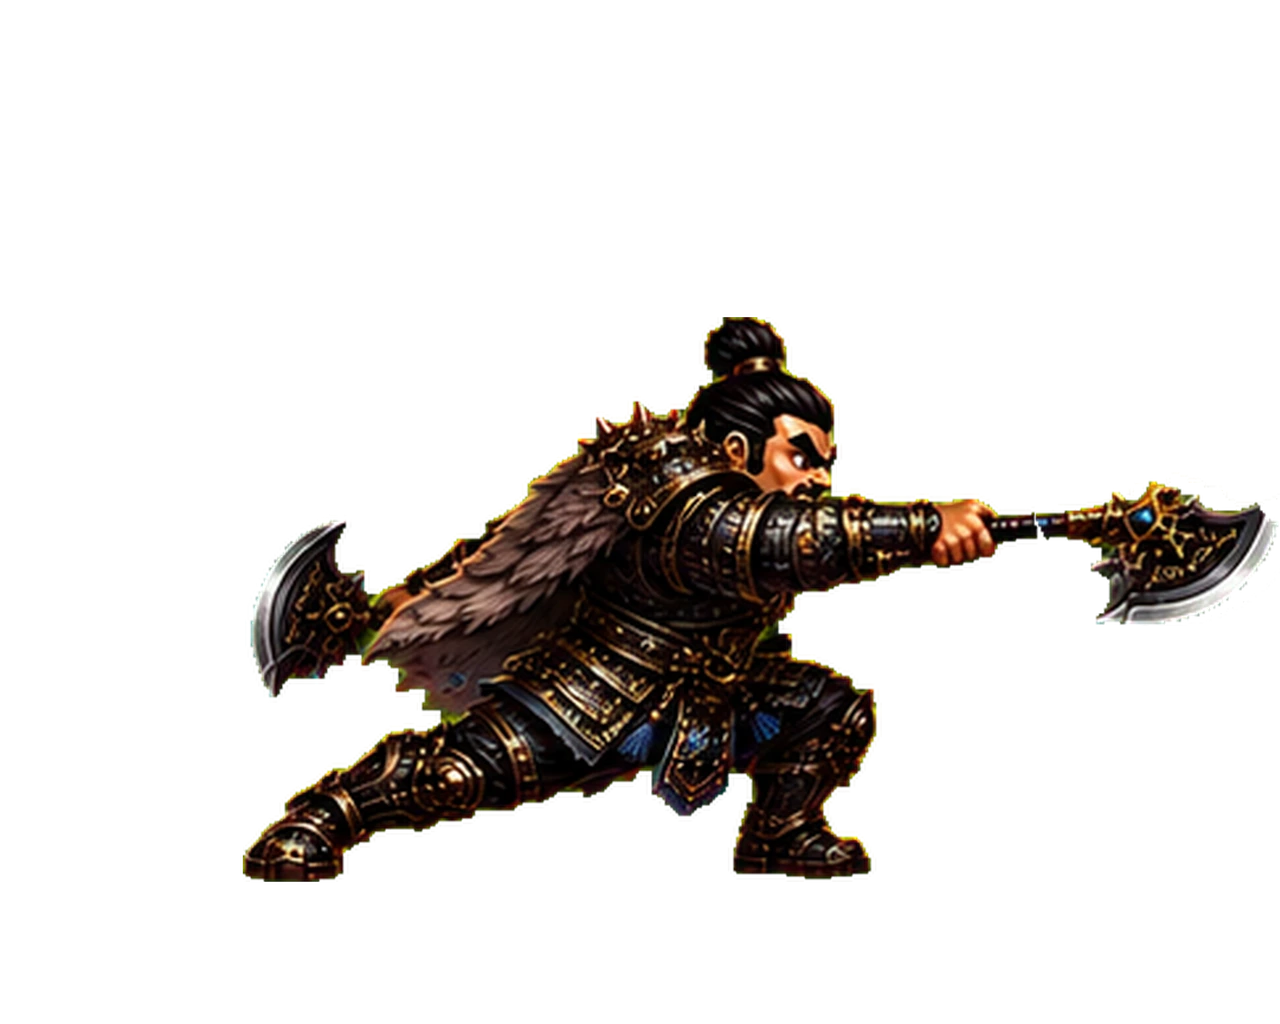
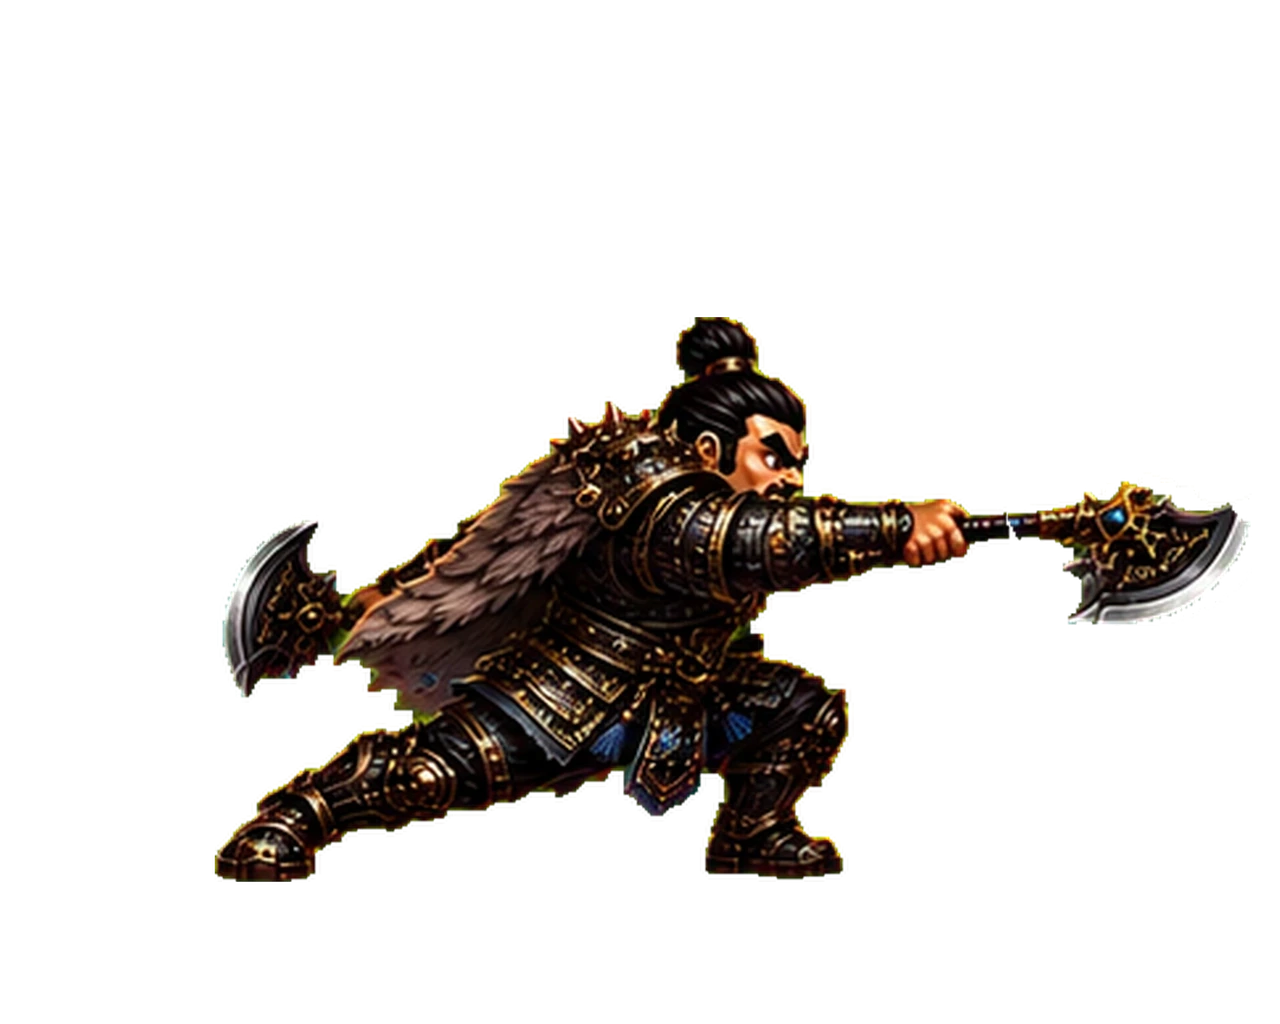
fix(일기토): 장수마다 화면 키가 37% 차이 났다 — bodyH 전원 실측 적용
조운 옆에 공손찬을 세우면 거인과 싸우는 그림이 됐다. 게임은 스프라이트를
`200 * size / bodyH` 배로 그리는데(STATE_TARGET_H=200), poses.json 에
bodyH 가 있는 장수가 49명 중 11명뿐이었다. 나머지는 기본값 620 을 쓰는데
실제 그림 키는 510~715px 로 제각각이라 화면 키가 168~246px 로 벌어졌다.

있는 11개도 출처가 달랐다 — 화웅은 511(실측 510)로 맞는데 관우는
640(실측 511)이었다.

bodyH 를 대기 자세의 실측 키로 통일했다. 컷 키 중앙값으로도 해봤지만
대기의 웅크린 깊이가 장수마다 달라 37% → 33% 로밖에 안 줄었다. 대기 키를
쓰면 서 있을 때 화면 키가 정확히 200 * size 가 된다.
→ 편차 37% → 17%, 남은 17% 는 size 로 일부러 준 체격 차이다
  (여포 1.1 · 화웅 1.14 · 사마의 0.96).

tools/fit_body_height.py 로 언제든 다시 맞출 수 있다.

전위 thrust_impact 이 오른쪽 캔버스 밖으로 2px 잘려 있어 28px 밀었다.

Changed region(s): [[0.1562, 0.3125, 1.0, 0.875]]

diff --git a/tools/fit_body_height.py b/tools/fit_body_height.py
@@ -1,0 +1,79 @@
+#!/usr/bin/env python3
+"""장수별 화면 키를 맞춘다 — poses.json 의 bodyH 를 실측값으로 다시 적는다.
+
+게임은 스프라이트를 `200 * size / bodyH` 배로 그린다(STATE_TARGET_H=200).
+bodyH 가 없으면 620 을 쓰는데, 49명 중 38명이 그 상태였다. 실제 그림 키는
+장수마다 510~715px 로 제각각이라 화면 키가 168~246px, 편차 37% 까지 벌어졌다
+— 조운(174) 옆에 공손찬(226)이 서면 거인과 싸우는 그림이 된다.
+
+bodyH 를 **대기 자세의 키**로 적는다. 그러면 서 있을 때 화면 키가 정확히
+200 * size 가 되어 모두 같아진다(size 는 여포 1.1, 사마의 0.96 처럼 일부러
+준 체격 차이다). 컷 키 중앙값으로도 해봤지만, 대기의 웅크린 깊이가 장수마다
+달라 편차가 37% → 33% 로밖에 안 줄었다. 플레이어가 나란히 놓고 비교하는
+자세는 대기다.
+
+  python3 tools/fit_body_height.py            # 전원
+  python3 tools/fit_body_height.py --dry-run  # 적지 않고 표만
+"""
+import argparse
+import glob
+import json
+import os
+import statistics
+
+import numpy as np
+from PIL import Image
+from scipy import ndimage
+
+ROOT = os.path.dirname(os.path.dirname(os.path.abspath(__file__)))
+STATES = os.path.join(ROOT, 'assets', 'arcade_duel')
+GROUND = 880
+TARGET_H = 200            # duel_v2.html 의 STATE_TARGET_H 와 같아야 한다
+SKIP = ('ko_down', 'ko_fall')
+
+
+def height(path):
+    a = np.array(Image.open(path).convert('RGBA').getchannel('A')) > 16
+    lbl, n = ndimage.label(a)
+    if not n:
+        return None
+    m = lbl == int(np.argmax(ndimage.sum(a, lbl, range(1, n + 1)))) + 1
+    ys, _ = np.nonzero(m)
+    return GROUND - int(ys.min())
+
+
+def main():
+    ap = argparse.ArgumentParser()
+    ap.add_argument('--dry-run', action='store_true')
+    args = ap.parse_args()
+
+    roster = json.load(open(os.path.join(STATES, 'generals.json'), encoding='utf-8'))
+    before, after = [], []
+    print(f"{'장수':<7}{'bodyH':>12}{'화면키':>14}")
+    for g in roster:
+        d = os.path.join(STATES, g['id'] + '_states')
+        pj = os.path.join(d, 'poses.json')
+        ih = height(os.path.join(d, 'idle.webp'))
+        if not ih:
+            continue
+        med = ih
+        meta = json.load(open(pj, encoding='utf-8'))
+        old = meta.get('bodyH') or 620
+        size = g.get('size', 1)
+        before.append(TARGET_H * size / old * ih)
+        after.append(TARGET_H * size / med * ih)
+        print(f"{g['name']:<7}{old:>5} → {med:<4}{before[-1]:>8.0f} → {after[-1]:<5.0f}")
+        if not args.dry_run:
+            meta['bodyH'] = med
+            json.dump(meta, open(pj, 'w', encoding='utf-8'), ensure_ascii=False, indent=1)
+
+    def spread(v):
+        return (max(v) - min(v)) / statistics.median(v) * 100
+    print(f"\n화면 키 편차  {spread(before):.0f}% → {spread(after):.0f}%")
+    print(f"  이전 {min(before):.0f}~{max(before):.0f}px / 이후 {min(after):.0f}~{max(after):.0f}px")
+    if args.dry_run:
+        print('\n(--dry-run: 아무것도 쓰지 않았다)')
+
+
+if __name__ == '__main__':
+    main()
